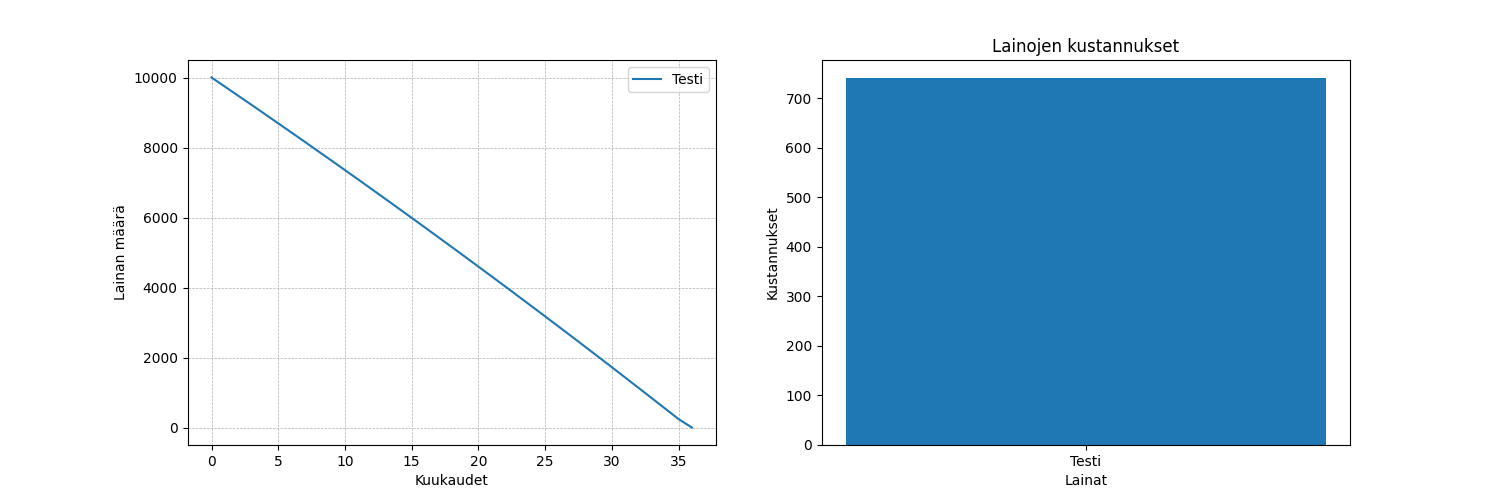
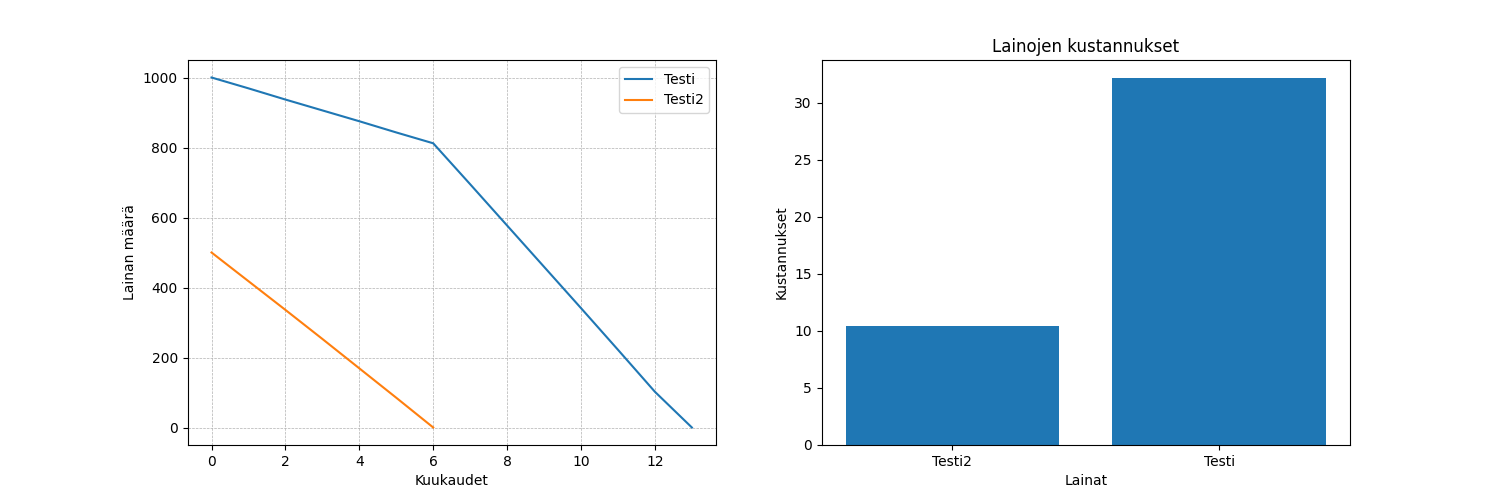
Sisältää suunnitellut toiminnot.

diff --git a/loan-calculatorv2-frontend/src/App.js b/loan-calculatorv2-frontend/src/App.js
@@ -26,8 +26,7 @@ function App() {
     // When form is submitted, make an API call (for example, using Axios)
     axios.post('http://127.0.0.1:5000/api/calculate', { loans, monthlyPayment })
       .then(response => {
-        const imgUrl =response.data;
-        window.open(imgUrl, "_blank");
+        setImageUrl(response.data.imageUrl);
       });
   };
 

diff --git a/main.py b/main.py
@@ -1,6 +1,7 @@
 from flask import Flask, render_template, request, send_file
 from flask_cors import CORS
 from flask import Flask, jsonify
+from flask import send_from_directory
 # <--- Api kirjastoja. Python kirjastoja -->
 import matplotlib.pyplot as plt 
 import json
@@ -34,9 +35,14 @@ def calculate():
         for key, value in loan.items():
             print(f"{key.capitalize()}: {value}")
     response = start(loans, monthly_payment)
-    print(response)
-    return response
+    image_filename = "output_image.png"
+    image_url = f"http://127.0.0.1:5000/images/{image_filename}"
+    return jsonify({"imageUrl": image_url})
 
+@app.route('/images/<filename>', methods=['GET'])
+def serve_image(filename):
+    image_folder = "C:\\Users\\n1k0m\\Documents\\LoanCalculatorV2\\Images"
+    return send_from_directory(image_folder, filename)
 
 final_loan_costs = {}
 loans = {}
